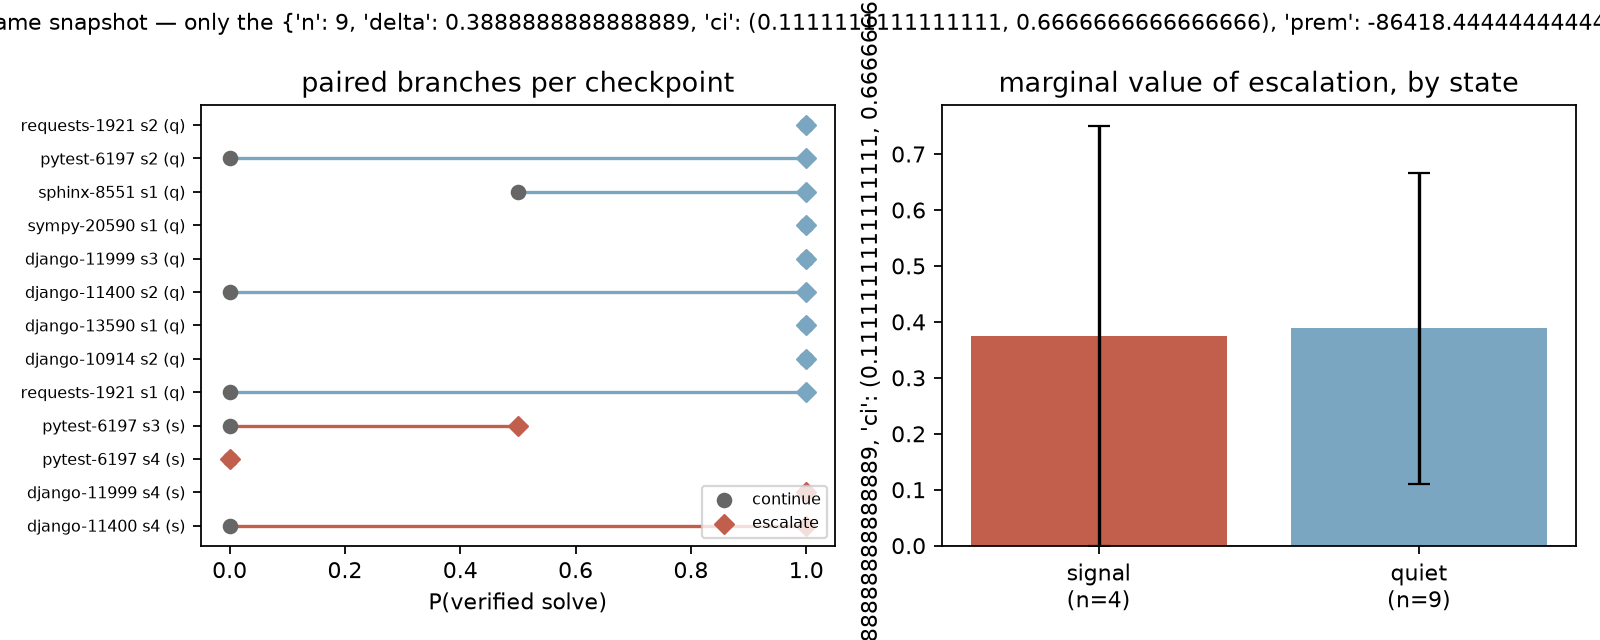
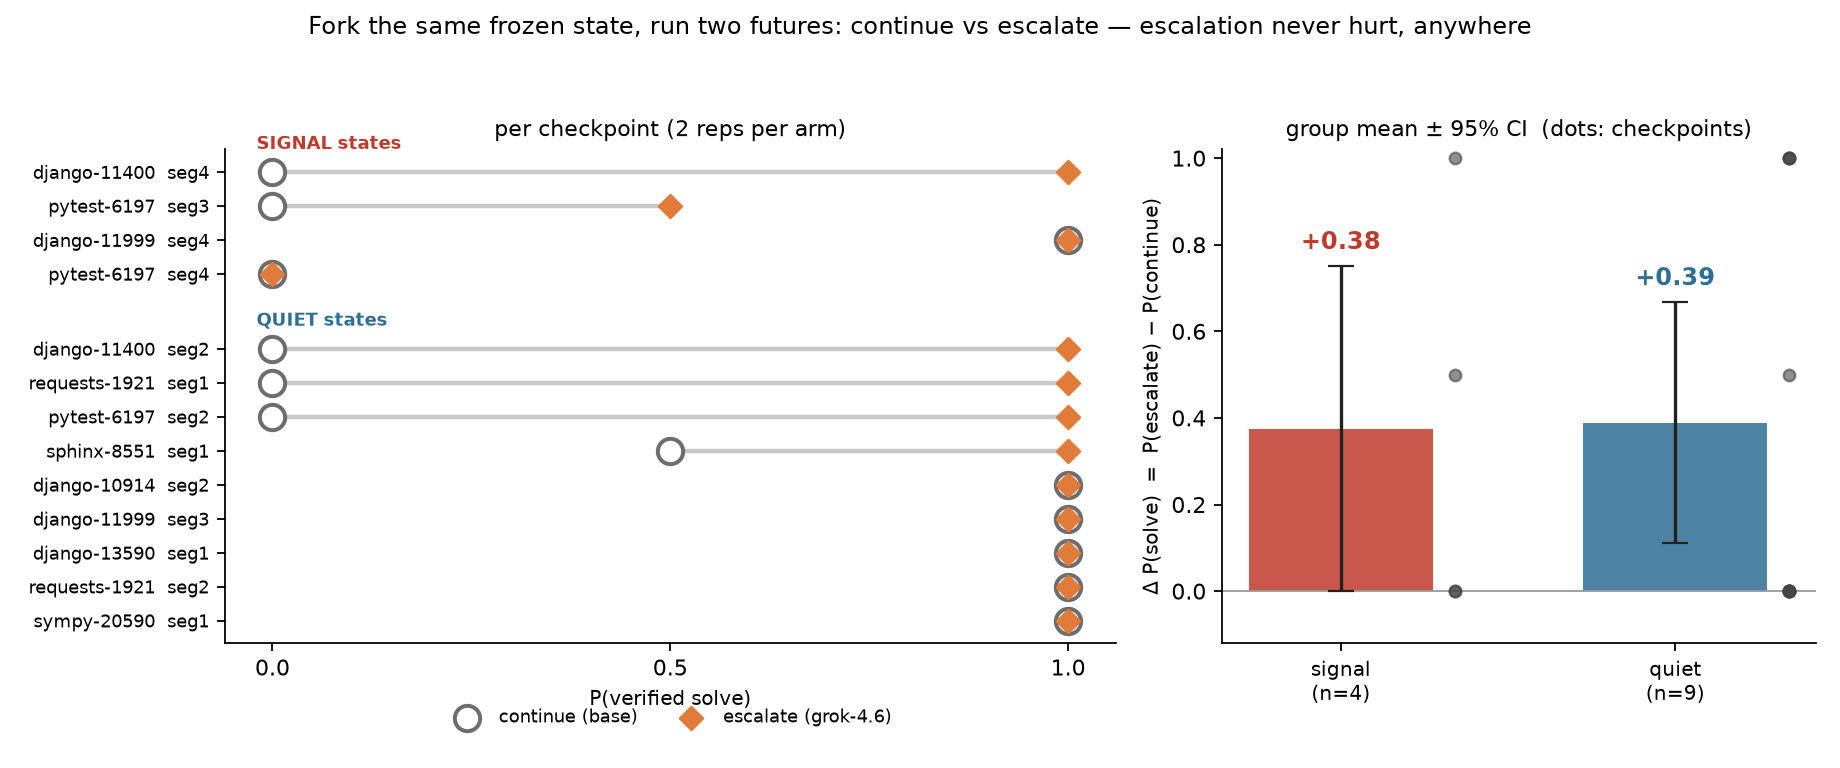
Figure overhaul: fix shadowed-label title bug, grouped dumbbells with visible pairs, annotated bars/scatter, jittered probes, trigger-labeled fork annotation

diff --git a/plots/marginal.py b/plots/marginal.py
@@ -127,41 +127,69 @@ def main():
             line += f"  -> {prem / mean_d:,.0f} total tok per marginal solve"
         print(line)
 
-    fig, (ax1, ax2) = plt.subplots(1, 2, figsize=(10, 4))
+    fig, (ax1, ax2) = plt.subplots(
+        1, 2, figsize=(11.5, 4.8), gridspec_kw={"width_ratios": [1.5, 1]})
     groups = ["signal", "quiet"]
-    colors = {"signal": "#c25e4c", "quiet": "#7aa6c2"}
-    y = 0
-    labels = []
-    for grp in groups:
-        for r in [x for x in rows if x["group"] == grp]:
-            ax1.plot([r["p_med"], r["p_xh"]], [y, y], color=colors[grp], lw=1.5, zorder=1)
-            ax1.scatter([r["p_med"]], [y], marker="o", color="#666", zorder=2,
-                        label=a if y == 0 else None)
-            ax1.scatter([r["p_xh"]], [y], marker="D", color=colors[grp], zorder=2,
-                        label=b if y == 0 else None)
-            labels.append(f"{r['task_id'].split('__')[-1]} s{r['segment']} ({grp[0]})")
-            y += 1
-    ax1.set_yticks(range(len(labels)), labels, fontsize=7)
-    ax1.set_xlabel("P(verified solve)")
-    ax1.set_xlim(-0.05, 1.05)
-    ax1.set_title("paired branches per checkpoint")
-    ax1.legend(fontsize=7, loc="lower right")
+    group_color = {"signal": "#c0392b", "quiet": "#2e6f95"}
+    CONT, ESC = "#6d6d6d", "#e07b39"
 
-    xs, ds, errs, cols = [], [], [[], []], []
-    for i, grp in enumerate(g for g in groups if g in agg):
-        a = agg[grp]
-        xs.append(f"{grp}\n(n={a['n']})")
-        ds.append(a["delta"])
-        errs[0].append(a["delta"] - a["ci"][0])
-        errs[1].append(a["ci"][1] - a["delta"])
-        cols.append(colors[grp])
-    ax2.bar(xs, ds, yerr=errs, capsize=5, color=cols)
+    # --- left: dumbbells, grouped with headers, pairs visible even when equal
+    y = 0
+    yticks, ylabels = [], []
+    for grp in groups:
+        members = sorted((r for r in rows if r["group"] == grp),
+                         key=lambda r: (-r["delta"], r["task_id"]))
+        if not members:
+            continue
+        ax1.text(-0.02, y + 0.55, f"{grp.upper()} states", fontsize=8,
+                 fontweight="bold", color=group_color[grp], va="bottom")
+        for r in members:
+            ax1.plot([r["p_med"], r["p_xh"]], [y, y], color="#c9c9c9", lw=2, zorder=1)
+            # continue: large open circle; escalate: smaller filled diamond —
+            # both stay visible when the two probabilities are equal
+            ax1.scatter([r["p_med"]], [y], s=130, facecolors="white",
+                        edgecolors=CONT, linewidths=1.8, zorder=2)
+            ax1.scatter([r["p_xh"]], [y], s=55, marker="D", color=ESC, zorder=3)
+            ylabels.append(f"{r['task_id'].split('__')[-1]}  seg{r['segment']}")
+            yticks.append(y)
+            y -= 1
+        y -= 1.2  # gap between groups
+    ax1.set_yticks(yticks, ylabels, fontsize=8)
+    ax1.set_xlim(-0.06, 1.06)
+    ax1.set_xticks([0, 0.5, 1.0])
+    ax1.set_xlabel("P(verified solve)", fontsize=9)
+    ax1.set_title("per checkpoint (2 reps per arm)", fontsize=10)
+    ax1.scatter([], [], s=130, facecolors="white", edgecolors=CONT,
+                linewidths=1.8, label=f"{a} (base)")
+    ax1.scatter([], [], s=55, marker="D", color=ESC, label=f"{b} (grok-4.6)")
+    ax1.legend(fontsize=8, loc="upper center", bbox_to_anchor=(0.5, -0.10),
+               ncol=2, frameon=False)
+    ax1.spines[["top", "right"]].set_visible(False)
+
+    # --- right: group means with CIs + the per-checkpoint deltas behind them
+    for i, grp in enumerate(groups):
+        if grp not in agg:
+            continue
+        g = agg[grp]
+        ax2.bar(i, g["delta"], width=0.55, color=group_color[grp], alpha=0.85, zorder=2)
+        ax2.errorbar(i, g["delta"],
+                     yerr=[[g["delta"] - g["ci"][0]], [g["ci"][1] - g["delta"]]],
+                     fmt="none", ecolor="#222", capsize=6, lw=1.5, zorder=4)
+        ax2.text(i, g["ci"][1] + 0.04, f"+{g['delta']:.2f}", ha="center",
+                 fontsize=11, fontweight="bold", color=group_color[grp])
+        pts = [r["delta"] for r in rows if r["group"] == grp]
+        ax2.scatter([i + 0.34] * len(pts), pts, s=28, color="#444", alpha=0.6, zorder=3)
     ax2.axhline(0, color="#999", lw=0.8)
-    ax2.set_ylabel(f"Δ P(solve)  =  {b} − {a}")
-    ax2.set_title("marginal value of escalation, by state")
-    fig.suptitle(f"Same trajectory prefix, same snapshot — only the {a}-vs-{b} arm differs",
-                 fontsize=10)
-    fig.tight_layout()
+    ax2.set_xticks([0, 1], [f"signal\n(n={agg.get('signal', {}).get('n', 0)})",
+                            f"quiet\n(n={agg.get('quiet', {}).get('n', 0)})"], fontsize=9)
+    ax2.set_ylim(-0.12, 1.02)
+    ax2.set_ylabel(f"Δ P(solve)  =  P({b}) − P({a})", fontsize=9)
+    ax2.set_title("group mean ± 95% CI  (dots: checkpoints)", fontsize=10)
+    ax2.spines[["top", "right"]].set_visible(False)
+
+    fig.suptitle(f"Fork the same frozen state, run two futures: {a} vs {b} — "
+                 "escalation never hurt, anywhere", fontsize=11)
+    fig.tight_layout(rect=[0, 0, 1, 0.94])
     out = ROOT / "plots" / "marginal.png"
     fig.savefig(out, dpi=160)
     print(f"\nwrote {out}")

diff --git a/plots/static_models.py b/plots/static_models.py
@@ -84,19 +84,34 @@ def main():
     errs = [[stats[m]["rate"] - (stats[m]["ci"][0] or stats[m]["rate"]) for m in labels],
             [(stats[m]["ci"][1] or stats[m]["rate"]) - stats[m]["rate"] for m in labels]]
     ax1.bar(range(len(labels)), rates, yerr=errs, capsize=4, color=colors)
-    ax1.set_xticks(range(len(labels)), labels, fontsize=8)
-    ax1.set_ylim(0, 1.05)
-    ax1.set_ylabel("verified solve rate")
-    ax1.set_title(f"SWE-bench Verified subset ({len(tasks)} tasks)")
     for i, m in enumerate(labels):
         s = stats[m]
-        ax2.scatter(s["cost"], s["rate"], s=90, color=colors[i], label=m)
+        ax1.text(i, min(s["rate"] + 0.07, 1.08), f"{s['rate']:.0%}\n${s['cost']:.2f}/task",
+                 ha="center", fontsize=9, fontweight="bold")
+    ax1.set_xticks(range(len(labels)), labels, fontsize=8)
+    ax1.set_ylim(0, 1.22)
+    ax1.set_yticks([0, 0.25, 0.5, 0.75, 1.0])
+    ax1.set_ylabel("verified solve rate")
+    ax1.set_title(f"SWE-bench Verified subset ({len(tasks)} tasks)", fontsize=10)
+    ax1.spines[["top", "right"]].set_visible(False)
+
+    offsets = {"grok-build-0.1": (10, -3), "grok-4.6": (-16, 9), "per-task-best*": (-20, -16)}
+    for i, m in enumerate(labels):
+        s = stats[m]
+        ax2.scatter(s["cost"], s["rate"], s=110, color=colors[i], zorder=3)
         ax2.annotate(m, (s["cost"], s["rate"]), textcoords="offset points",
-                     xytext=(8, -4), fontsize=8)
+                     xytext=offsets.get(m, (8, -4)), fontsize=9)
+    ax2.annotate("", xy=(stats["per-task-best*"]["cost"], stats["per-task-best*"]["rate"]),
+                 xytext=(stats["grok-4.6"]["cost"], stats["grok-4.6"]["rate"]),
+                 arrowprops=dict(arrowstyle="->", color="#999", lw=1.2))
+    ax2.text((stats["grok-4.6"]["cost"] + stats["per-task-best*"]["cost"]) / 2, 0.955,
+             "−30% cost,\nsame solve rate", ha="center", fontsize=8, color="#555")
     ax2.set_xlabel("mean $ / task")
     ax2.set_ylabel("verified solve rate")
-    ax2.set_ylim(0, 1.05)
-    ax2.set_title("solve rate vs dollar cost")
+    ax2.set_ylim(0.65, 1.06)
+    ax2.set_xlim(0.24, 0.56)
+    ax2.set_title("solve rate vs dollar cost", fontsize=10)
+    ax2.spines[["top", "right"]].set_visible(False)
     fig.suptitle("Task-level model allocation (single agent, 40-turn cap, effort constant)",
                  fontsize=10)
     fig.tight_layout()

diff --git a/plots/trajectory.py b/plots/trajectory.py
@@ -99,9 +99,12 @@ def main():
     fork_x = fork_seg * 8
     fork_y = ys[fork_seg]
     ax.axvline(fork_x, color="#888", ls=":", lw=1)
-    ax.annotate(f"fork @ turn {fork_x}\n({ck['selected_as']} state, "
-                f"streak={ck['state']['failure_streak']})",
-                (fork_x, fork_y), textcoords="offset points", xytext=(6, 26), fontsize=8)
+    trigger = ("failed verification" if ck["state"].get("last_test_failed")
+               else "repeat-edits without passing verification"
+               if ck["selected_as"] == "signal" else "no failure signal")
+    ax.annotate(f"fork @ turn {fork_x}\n{ck['selected_as']} state: {trigger}",
+                (fork_x, fork_y), textcoords="offset points", xytext=(-8, 40),
+                fontsize=8, ha="right")
 
     palette = ["#7aa6c2", "#c25e4c", "#8e7cc3", "#6aa84f"]
     arm_labels = list(ck["branch_run_ids"].keys())

diff --git a/plots/dial.py b/plots/dial.py
@@ -39,11 +39,12 @@ def main():
 
     colors = {"grok-build-0.1": "#c25e4c", "grok-4.20-0309-reasoning": "#8e7cc3",
               "grok-4.6": "#7aa6c2"}
+    jitter = {"grok-build-0.1": -0.13, "grok-4.20-0309-reasoning": 0.0, "grok-4.6": 0.13}
     for model, by_level in PROBES.items():
         xs, ys = [], []
         for i, lvl in enumerate(LEVELS):
             for v in by_level.get(lvl, []):
-                xs.append(i)
+                xs.append(i + jitter[model])
                 ys.append(v)
         ax1.plot(xs, ys, "o", color=colors[model], label=model, alpha=0.85, markersize=7)
     ax1.set_xticks(range(len(LEVELS)), LEVELS)
